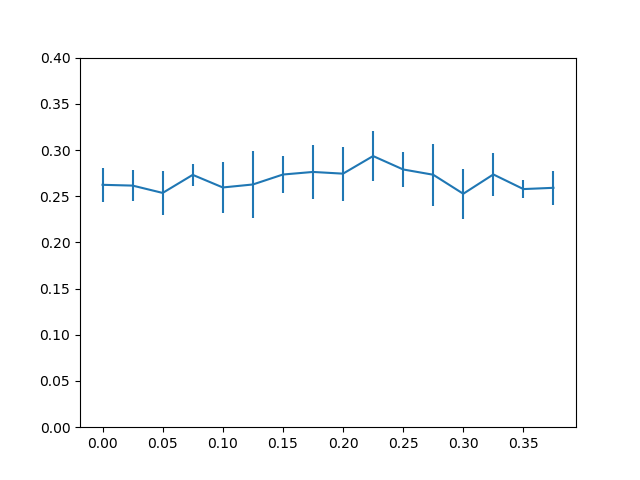
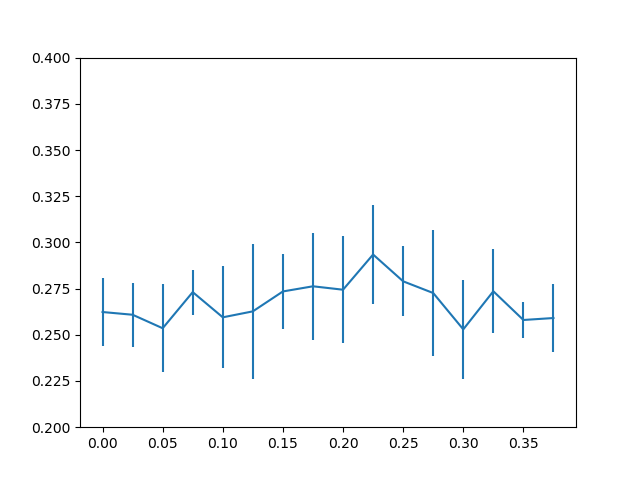
4 class permutation and cross val tests

diff --git a/code/main_analysis.py b/code/main_analysis.py
@@ -107,12 +107,12 @@ def run_subject(behavior_subj, should_save_evoked_figs=False, should_train_epoch
 def main():
     training_results = []
     for subject in meg_subj_lst:
-        result = run_subject(subject, permutation_test=False)
+        result = run_subject(subject, permutation_test=True)
         training_results.append(result)
     
     training_error = np.std(np.array(training_results), axis=0)
     training_results = np.array(training_results).mean(0)
-    ml.plot_results(np.linspace(0, 0.375, 16), training_results, "cross_val_error", "average", training_err=training_error)
+    ml.plot_results(np.linspace(0, 0.375, 16), training_results, "cross_val_permutation_error", "average", training_err=training_error)
 
     return 0
 

diff --git a/code/machine_learning.py b/code/machine_learning.py
@@ -110,7 +110,7 @@ def plot_results(time_scale, y_pred, ml_type, subj, training_err=[]):
         plt.errorbar(time_scale, y_pred, yerr=training_err)
     else:
         plt.plot(time_scale, y_pred)
-    plt.ylim((0, 0.4))
+    plt.ylim((0.2, 0.4))
     plt.savefig('../Figures/ML/ml_results_%s_%s.png' % (ml_type, subj))
     plt.clf()
 
